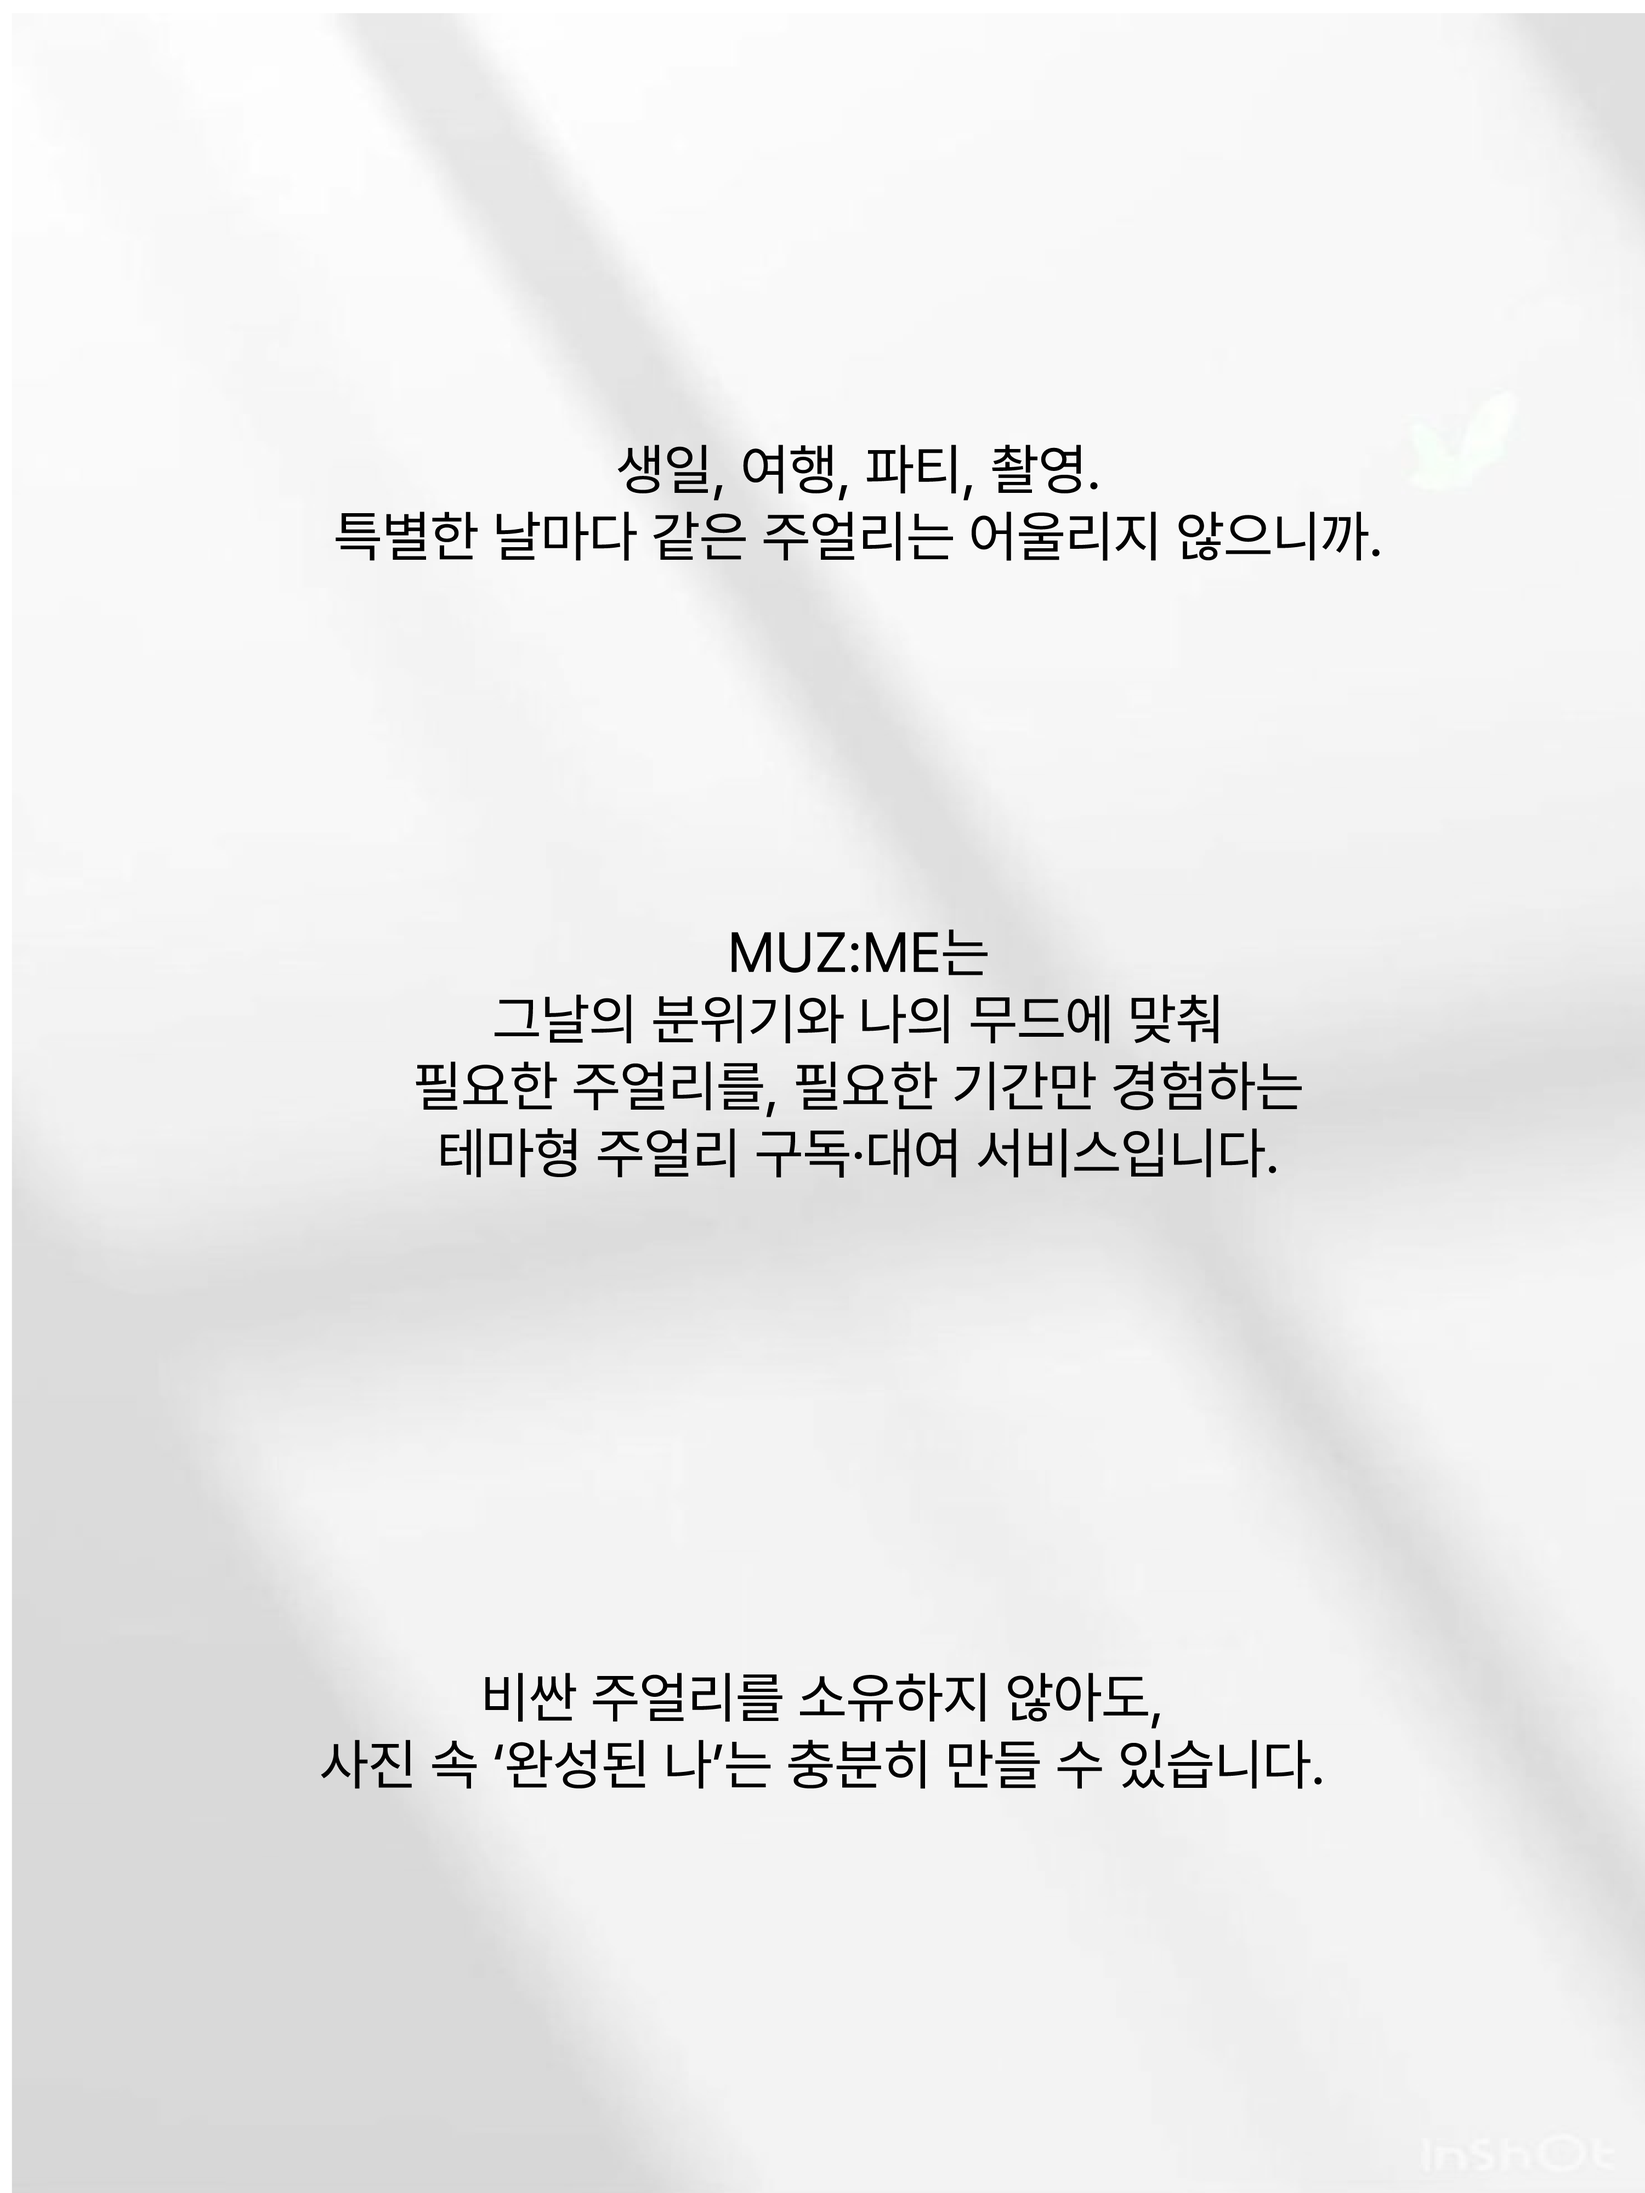
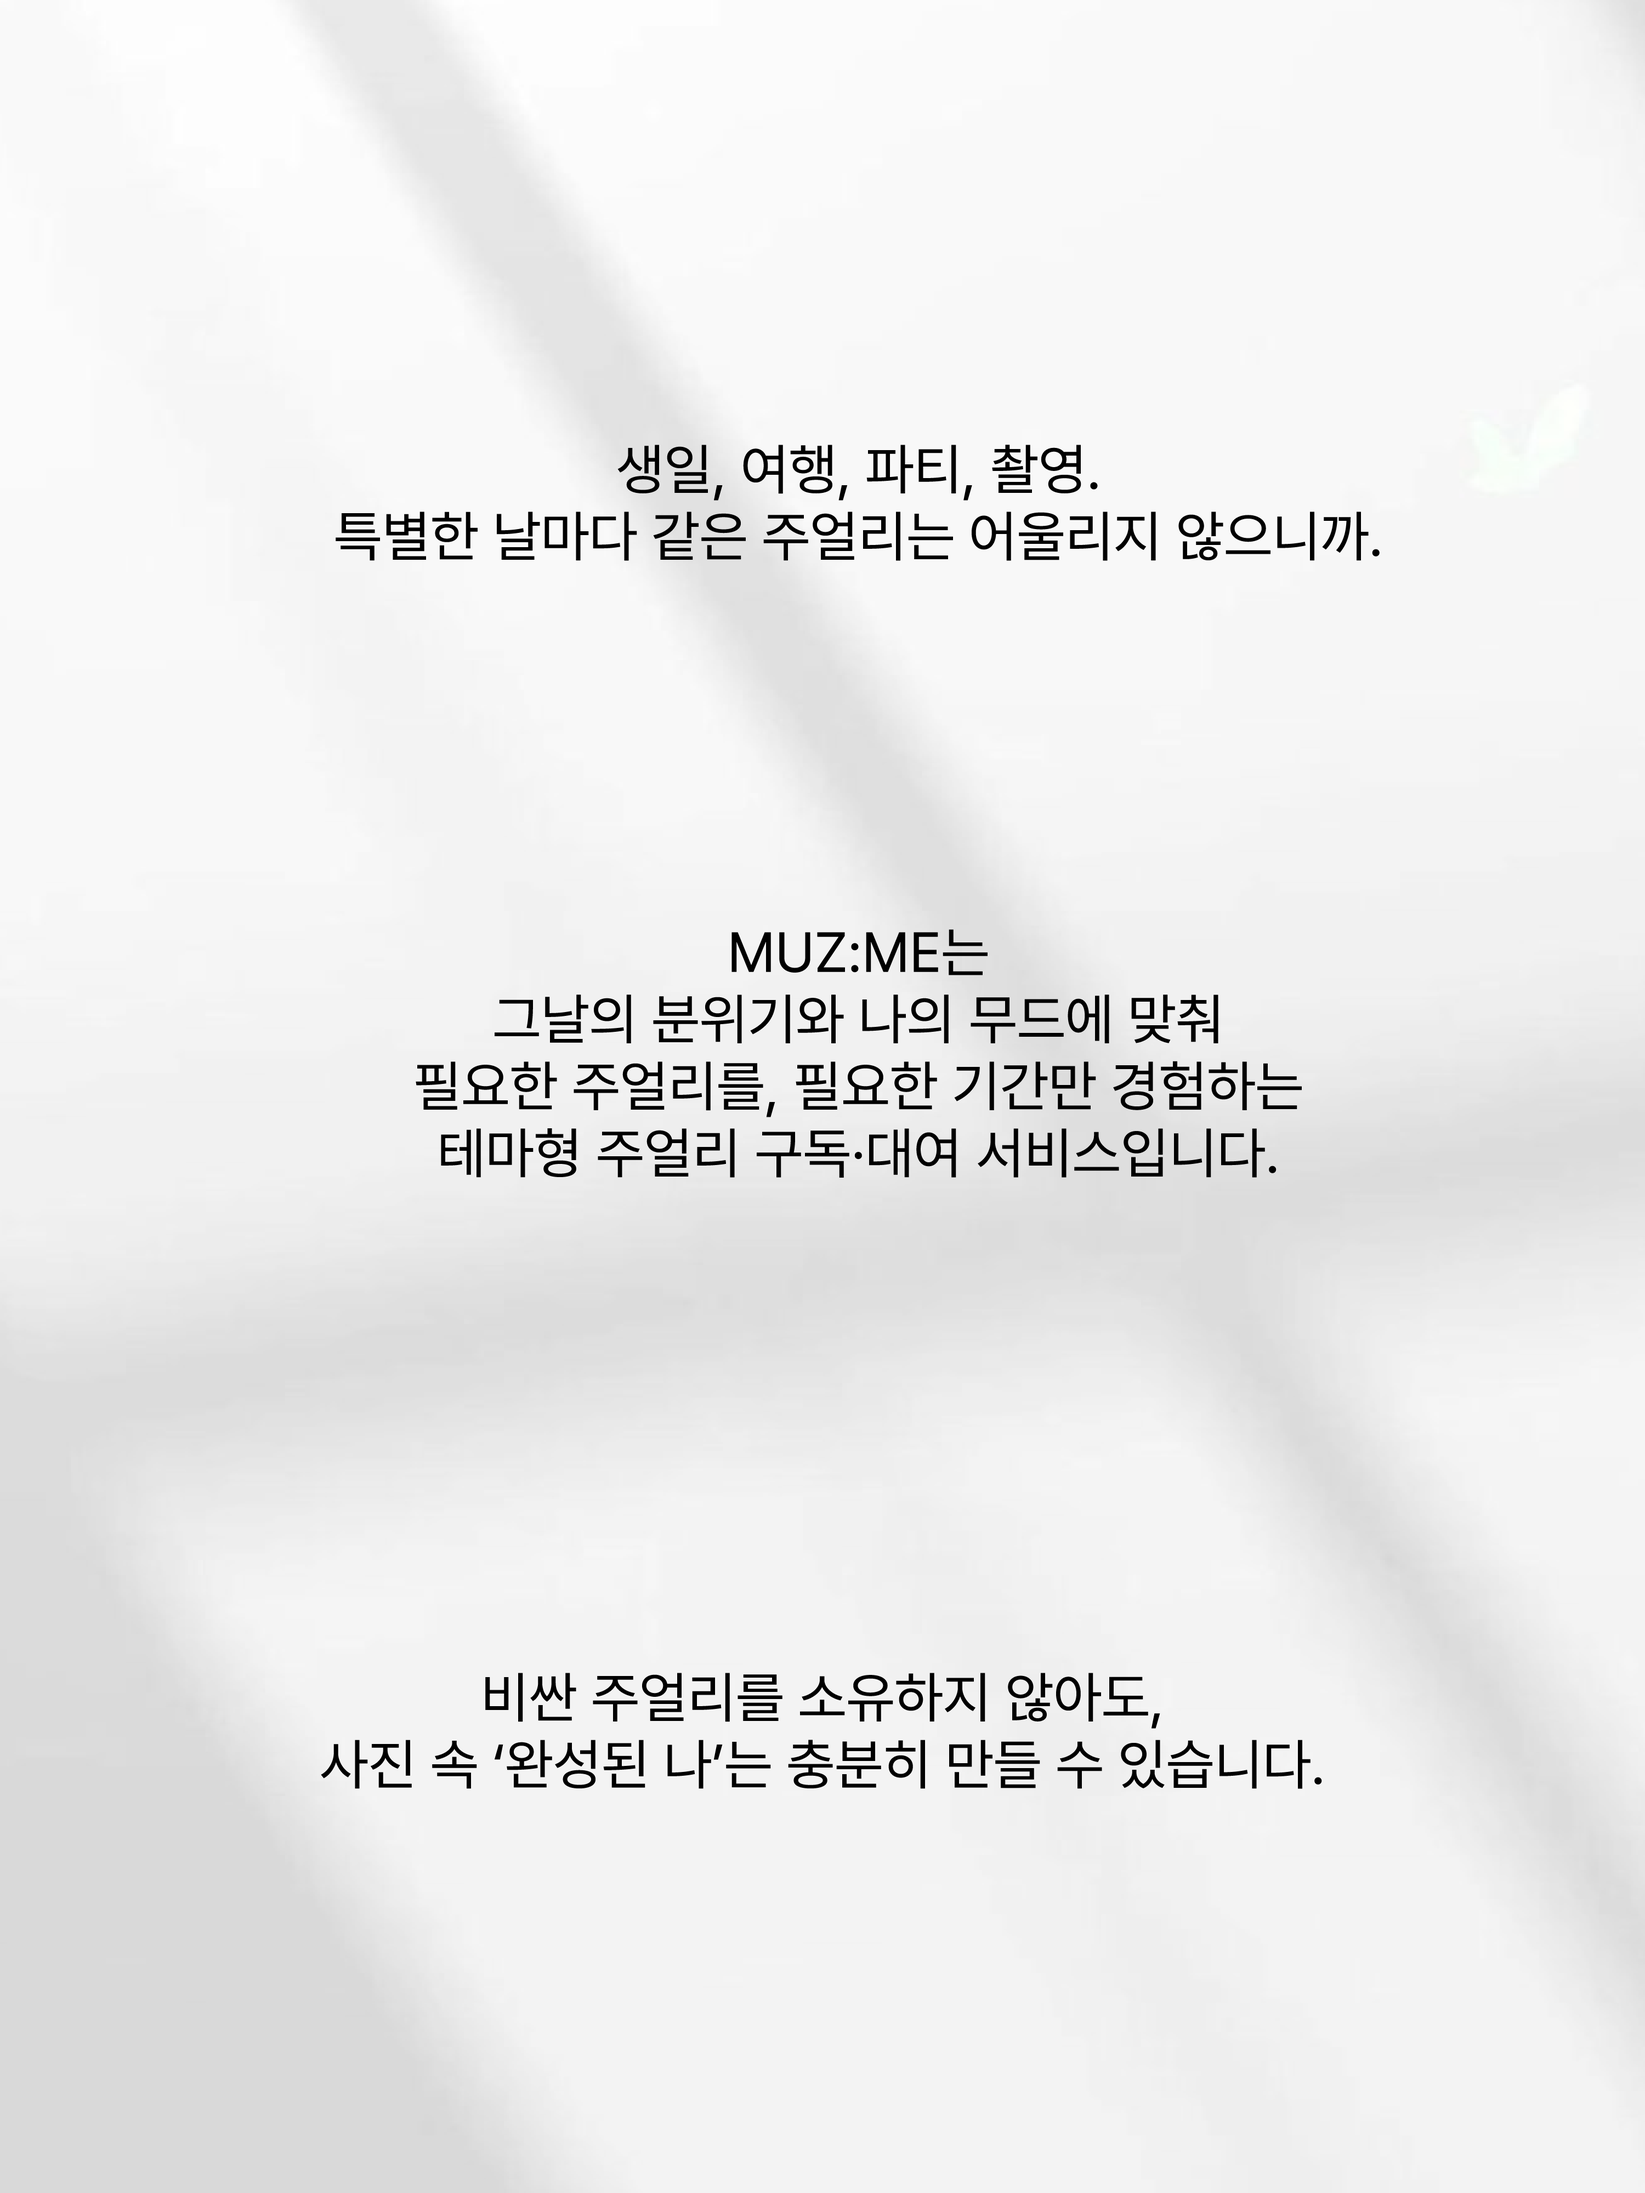
브랜드 이미지 업데이트 및 작업용 파일 정리
- 브랜드 소개 이미지 5개 교체
- CSS/JS/HTML 수정사항 반영
- 작업용 파일 gitignore 추가 (소개글 txt, 브랜드 이미지 폴더)

diff --git a/static/css/pages/product-detail.css b/static/css/pages/product-detail.css
@@ -184,10 +184,14 @@
   margin-bottom: 60px;
 }
 
+/* 대표 이미지 - 뉴모피즘 볼륨감 */
 .product-detail-section .main-image {
   width: 100%;
   margin-bottom: 32px;
   border-radius: var(--radius-lg);
+  background: var(--bg);
+  padding: 16px;
+  box-shadow: var(--shadow-out);
 }
 
 /* 상품 설명 - 뉴모피즘 */
@@ -202,18 +206,37 @@
   box-shadow: var(--shadow-out-soft);
 }
 
-.detail-image-group,
-.wearing-shot-group {
+.detail-image-group {
   display: grid;
-  gap: 16px;
+  gap: 24px;
+  margin-bottom: 48px;
 }
 
-.detail-image-group img,
+.wearing-shot-group {
+  display: grid;
+  gap: 24px;
+}
+
+/* 상세 이미지 - 뉴모피즘 볼륨감 */
+.detail-image-group img {
+  width: 100%;
+  aspect-ratio: 3/4;
+  object-fit: cover;
+  border-radius: var(--radius-lg);
+  background: var(--bg);
+  padding: 12px;
+  box-shadow: var(--shadow-out);
+}
+
+/* 착용샷 이미지 - 뉴모피즘 볼륨감 */
 .wearing-shot-group img {
   width: 100%;
   aspect-ratio: 3/4;
   object-fit: cover;
-  border-radius: var(--radius-md);
+  border-radius: var(--radius-lg);
+  background: var(--bg);
+  padding: 12px;
+  box-shadow: var(--shadow-out);
 }
 
 /* 구매 전 확인 사항 - 뉴모피즘 */
@@ -269,6 +292,27 @@
 
   .purchase-notice {
     padding: 24px;
+    border-radius: var(--radius-md);
+  }
+
+  .product-detail-section .main-image {
+    padding: 12px;
+    border-radius: var(--radius-md);
+    margin-bottom: 24px;
+  }
+
+  .detail-image-group {
+    gap: 16px;
+    margin-bottom: 32px;
+  }
+
+  .wearing-shot-group {
+    gap: 16px;
+  }
+
+  .detail-image-group img,
+  .wearing-shot-group img {
+    padding: 8px;
     border-radius: var(--radius-md);
   }
 }

diff --git a/templates/pages/index.html b/templates/pages/index.html
@@ -18,18 +18,17 @@
 <!-- 배너 갤러리 (전체 너비) -->
 <section class="banner-gallery">
   <div class="banner-slider">
-    <div class="banner-slide active">
+    <div class="banner-slide active" data-text="TRADITIONAL">
       <img src="{{ url_for('static', filename='images/banners/banner1.png') }}" alt="배너 1">
-      <span class="banner-text">TRADITIONAL</span>
     </div>
-    <div class="banner-slide">
+    <div class="banner-slide" data-text="DAILY">
       <img src="{{ url_for('static', filename='images/banners/banner2.png') }}" alt="배너 2">
-      <span class="banner-text">DAILY</span>
     </div>
-    <div class="banner-slide">
+    <div class="banner-slide" data-text="PRINCESS">
       <img src="{{ url_for('static', filename='images/banners/banner3.png') }}" alt="배너 3">
-      <span class="banner-text">PRINCESS</span>
     </div>
+    <!-- 배너 텍스트 (슬라이더 레벨에 배치) -->
+    <span class="banner-text">TRADITIONAL</span>
     <!-- 양옆 화살표 -->
     <button class="banner-arrow banner-prev" aria-label="이전">
       <svg xmlns="http://www.w3.org/2000/svg" width="20" height="20" viewBox="0 0 24 24" fill="none" stroke="currentColor" stroke-width="2.5" stroke-linecap="round" stroke-linejoin="round">

diff --git a/static/css/pages/index.css b/static/css/pages/index.css
@@ -54,18 +54,22 @@
   background: var(--bg);
 }
 
-/* 배너 텍스트 */
+/* 배너 텍스트 - 슬라이더 내부 하단 중앙 (이미지 위에 오버레이) */
 .banner-text {
   position: absolute;
-  bottom: 24px;
+  bottom: 40px;
   left: 50%;
   transform: translateX(-50%);
+  z-index: 5;
   font-family: 'Pretendard', sans-serif;
   font-weight: 700;
   font-size: 14px;
   text-transform: uppercase;
   color: var(--text);
   letter-spacing: 3px;
+  background: rgba(255, 255, 255, 0.85);
+  padding: 10px 24px;
+  border-radius: 4px;
 }
 
 /* 배너 양옆 화살표 */
@@ -262,7 +266,8 @@
 
   .banner-text {
     font-size: 13px;
-    bottom: 20px;
+    bottom: 30px;
+    padding: 6px 16px;
   }
 }
 
@@ -324,8 +329,9 @@
 
   .banner-text {
     font-size: 12px;
-    bottom: 16px;
+    bottom: 24px;
     letter-spacing: 2px;
+    padding: 5px 14px;
   }
 }
 
@@ -384,8 +390,9 @@
 
   .banner-text {
     font-size: 11px;
-    bottom: 12px;
+    bottom: 16px;
     letter-spacing: 1.5px;
+    padding: 4px 12px;
   }
 }
 

diff --git a/static/js/pages/index.js b/static/js/pages/index.js
@@ -17,6 +17,7 @@ class BannerSlider {
     this.slides = container.querySelectorAll('.banner-slide');
     this.prevBtn = container.querySelector('.banner-prev');
     this.nextBtn = container.querySelector('.banner-next');
+    this.bannerText = container.querySelector('.banner-text');
     this.currentIndex = 0;
     this.autoPlayInterval = null;
     this.autoPlayDelay = 5000;
@@ -113,7 +114,13 @@ class BannerSlider {
     this.currentIndex = (index + this.slides.length) % this.slides.length;
 
     // 새 슬라이드 활성화
-    this.slides[this.currentIndex].classList.add('active');
+    const newSlide = this.slides[this.currentIndex];
+    newSlide.classList.add('active');
+
+    // 배너 텍스트 업데이트
+    if (this.bannerText && newSlide.dataset.text) {
+      this.bannerText.textContent = newSlide.dataset.text;
+    }
   }
 
   /**

diff --git a/static/css/variables.css b/static/css/variables.css
@@ -5,20 +5,20 @@
 
 :root {
   /* ===== RGB 값 (alpha 조합용) ===== */
-  --bg-rgb: 255, 255, 255;
+  --bg-rgb: 240, 240, 243;
   --text-rgb: 30, 30, 30;
   --muted-rgb: 107, 107, 107;
   --accent-rgb: 232, 90, 80;
   --white-rgb: 255, 255, 255;
   --black-rgb: 0, 0, 0;
-  --shadow-dark-rgb: 200, 200, 200;
+  --shadow-dark-rgb: 180, 180, 190;
   --shadow-light-rgb: 255, 255, 255;
 
-  /* ===== base palette (화이트 배경) ===== */
-  --bg: #FFFFFF;
-  --surface: #FFFFFF;
+  /* ===== base palette (밝은 배경 - 뉴모피즘) ===== */
+  --bg: #F0F0F3;
+  --surface: #F0F0F3;
   --surface-hi: #FFFFFF;
-  --surface-lo: #F0F0F0;
+  --surface-lo: #D1D1D6;
 
   /* 텍스트 - 다크 차콜 */
   --text: #1E1E1E;

diff --git a/static/js/components/header.js b/static/js/components/header.js
@@ -34,9 +34,10 @@ class HeaderManager {
     this.bindEvents();
     this.updateAuthUI();
     this.setActiveTab();
-    this.applyColorTheme(this.currentAccentColor, this.currentMode);
+    // 컬러 테마 비활성화 - 흰색 배경 유지
+    // this.applyColorTheme(this.currentAccentColor, this.currentMode);
     this.hideThemeBtnOnDate();
-    this.updateColorPickerUI();
+    // this.updateColorPickerUI();
   }
 
   /**
